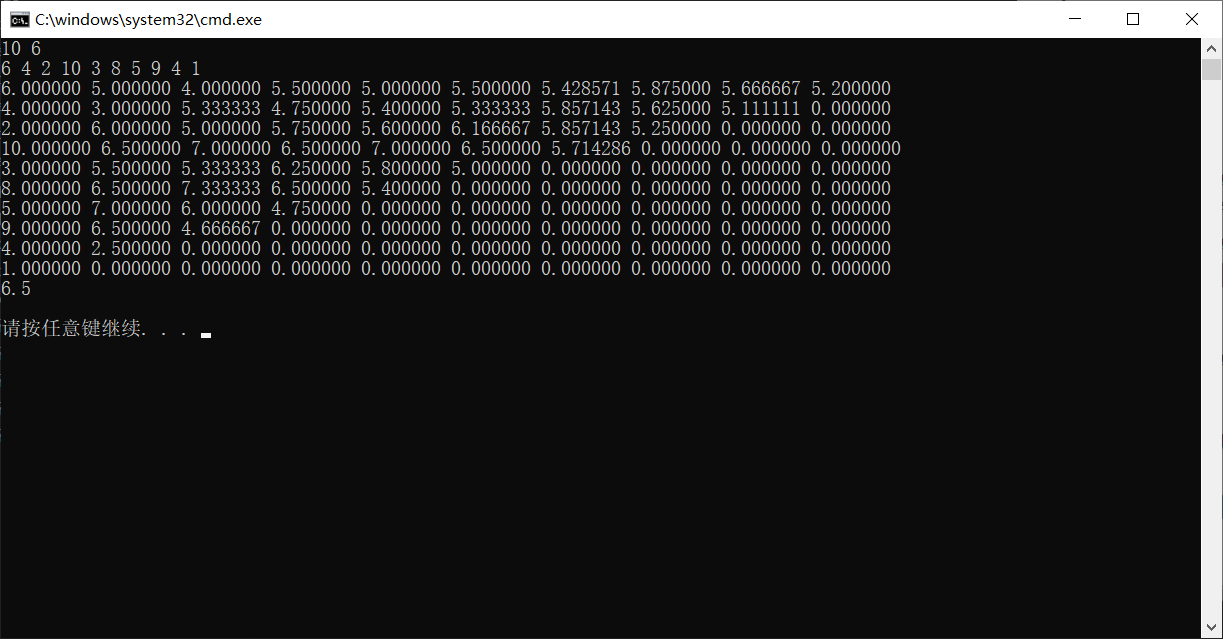
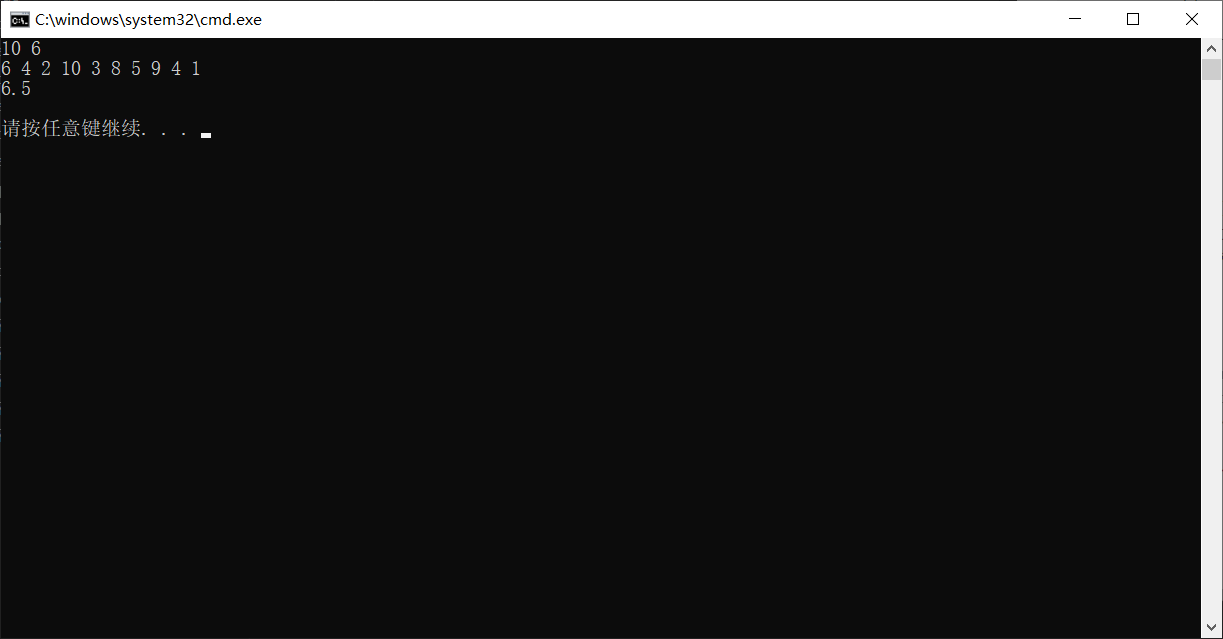
Site updated: 2023-05-20 00:06:19

diff --git a/2023/05/18/动态规划1/index.html b/2023/05/18/动态规划1/index.html
@@ -31,7 +31,7 @@
 <meta property="og:image" content="https://sunwuzhou03.github.io/images/%E5%8A%A8%E6%80%81%E8%A7%84%E5%88%921%E9%A2%98%E7%9B%AE3%E5%9B%BE.png">
 <meta property="og:image" content="https://sunwuzhou03.github.io/images/%E5%8A%A8%E6%80%81%E8%A7%84%E5%88%921%E9%A2%98%E7%9B%AE3%E8%BF%90%E8%A1%8C%E7%BB%93%E6%9E%9C%E5%9B%BE.png">
 <meta property="article:published_time" content="2023-05-18T15:24:16.000Z">
-<meta property="article:modified_time" content="2023-05-19T16:00:12.676Z">
+<meta property="article:modified_time" content="2023-05-19T16:04:32.171Z">
 <meta property="article:author" content="sunwuzhou03">
 <meta property="article:tag" content="动态规划">
 <meta name="twitter:card" content="summary">
@@ -211,7 +211,7 @@
         <i class="far fa-calendar-check"></i>
       </span>
       <span class="post-meta-item-text">更新于</span>
-      <time title="修改时间：2023-05-20 00:00:12" itemprop="dateModified" datetime="2023-05-20T00:00:12+08:00">2023-05-20</time>
+      <time title="修改时间：2023-05-20 00:04:32" itemprop="dateModified" datetime="2023-05-20T00:04:32+08:00">2023-05-20</time>
     </span>
     <span class="post-meta-item">
       <span class="post-meta-item-icon">
@@ -257,7 +257,7 @@
 <p>递推公式：<br>$  dp[i][j] = dp[i][j - 1] + (x[i + j - 1] - dp[i][j - 1]) / j $, $1=&lt;i&lt;=n, 1=&lt;j&lt;=n-i+1$</p>
 <p>边界条件：<br>$dp[1][0]=dp[2][0]=…=dp[n][0]=0$</p>
 <p>时间复杂度：<br>$O(n^2)$, $n$为数字序列长度</p>
-<h2 id="代码"><a href="#代码" class="headerlink" title="代码"></a>代码</h2><figure class="highlight c++"><table><tr><td class="gutter"><pre><span class="line">1</span><br><span class="line">2</span><br><span class="line">3</span><br><span class="line">4</span><br><span class="line">5</span><br><span class="line">6</span><br><span class="line">7</span><br><span class="line">8</span><br><span class="line">9</span><br><span class="line">10</span><br><span class="line">11</span><br><span class="line">12</span><br><span class="line">13</span><br><span class="line">14</span><br><span class="line">15</span><br><span class="line">16</span><br><span class="line">17</span><br><span class="line">18</span><br><span class="line">19</span><br><span class="line">20</span><br><span class="line">21</span><br><span class="line">22</span><br><span class="line">23</span><br><span class="line">24</span><br><span class="line">25</span><br><span class="line">26</span><br><span class="line">27</span><br><span class="line">28</span><br><span class="line">29</span><br><span class="line">30</span><br><span class="line">31</span><br><span class="line">32</span><br><span class="line">33</span><br><span class="line">34</span><br></pre></td><td class="code"><pre><span class="line"><span class="meta">#<span class="keyword">include</span> <span class="string">&lt;bits/stdc++.h&gt;</span></span></span><br><span class="line"><span class="keyword">using</span> <span class="keyword">namespace</span> std;</span><br><span class="line"><span class="function"><span class="type">int</span> <span class="title">main</span><span class="params">()</span></span></span><br><span class="line"><span class="function"></span>&#123;</span><br><span class="line">    <span class="type">int</span> n, f;</span><br><span class="line">    <span class="type">double</span> x[<span class="number">100</span>] = &#123;<span class="number">0</span>&#125;;</span><br><span class="line">    <span class="type">double</span> dp[<span class="number">100</span>][<span class="number">100</span>] = &#123;<span class="number">0.0</span>&#125;;</span><br><span class="line">    <span class="type">double</span> ans = <span class="number">0.0</span>;</span><br><span class="line">    cin &gt;&gt; n &gt;&gt; f;</span><br><span class="line">    <span class="keyword">for</span> (<span class="type">int</span> i = <span class="number">1</span>; i &lt;= n; i++)</span><br><span class="line">        cin &gt;&gt; x[i];</span><br><span class="line">    <span class="keyword">for</span> (<span class="type">int</span> i = <span class="number">1</span>; i &lt;= n; i++)<span class="comment">//枚举序列起点</span></span><br><span class="line">    &#123;</span><br><span class="line">        <span class="keyword">for</span> (<span class="type">int</span> j = <span class="number">1</span>; j &lt;= n - i + <span class="number">1</span>; j++)<span class="comment">//枚举序列长度</span></span><br><span class="line">        &#123;</span><br><span class="line">            dp[i][j] = dp[i][j - <span class="number">1</span>] + (x[i + j - <span class="number">1</span>] - dp[i][j - <span class="number">1</span>]) / j;<span class="comment">//递推公式</span></span><br><span class="line">            <span class="keyword">if</span> (j &gt;= f)<span class="comment">//求解f以上序列平均值最大值</span></span><br><span class="line">                ans = <span class="built_in">max</span>(ans, dp[i][j]); </span><br><span class="line">        &#125;</span><br><span class="line">    &#125;</span><br><span class="line">    <span class="keyword">for</span> (<span class="type">int</span> i = <span class="number">1</span>; i &lt;= n; i++)<span class="comment">//打印各个序列的平均值，便于观察</span></span><br><span class="line">    &#123;</span><br><span class="line">        <span class="keyword">for</span> (<span class="type">int</span> j = <span class="number">1</span>; j &lt;= n; j++)</span><br><span class="line">            <span class="built_in">printf</span>(<span class="string">&quot;%8lf &quot;</span>, dp[i][j]);</span><br><span class="line">        cout &lt;&lt; endl;</span><br><span class="line">    &#125;</span><br><span class="line">    cout &lt;&lt; ans &lt;&lt; endl;<span class="comment">//输出最终结果</span></span><br><span class="line">    <span class="keyword">return</span> <span class="number">0</span>;</span><br><span class="line">&#125;</span><br><span class="line"><span class="comment">/*</span></span><br><span class="line"><span class="comment">10 6</span></span><br><span class="line"><span class="comment">6 4 2 10 3 8 5 9 4 1</span></span><br><span class="line"><span class="comment">*/</span></span><br><span class="line"></span><br></pre></td></tr></table></figure>
+<h2 id="代码"><a href="#代码" class="headerlink" title="代码"></a>代码</h2><figure class="highlight c++"><table><tr><td class="gutter"><pre><span class="line">1</span><br><span class="line">2</span><br><span class="line">3</span><br><span class="line">4</span><br><span class="line">5</span><br><span class="line">6</span><br><span class="line">7</span><br><span class="line">8</span><br><span class="line">9</span><br><span class="line">10</span><br><span class="line">11</span><br><span class="line">12</span><br><span class="line">13</span><br><span class="line">14</span><br><span class="line">15</span><br><span class="line">16</span><br><span class="line">17</span><br><span class="line">18</span><br><span class="line">19</span><br><span class="line">20</span><br><span class="line">21</span><br><span class="line">22</span><br><span class="line">23</span><br><span class="line">24</span><br><span class="line">25</span><br><span class="line">26</span><br><span class="line">27</span><br><span class="line">28</span><br><span class="line">29</span><br><span class="line">30</span><br><span class="line">31</span><br><span class="line">32</span><br><span class="line">33</span><br><span class="line">34</span><br></pre></td><td class="code"><pre><span class="line"><span class="meta">#<span class="keyword">include</span> <span class="string">&lt;bits/stdc++.h&gt;</span></span></span><br><span class="line"><span class="keyword">using</span> <span class="keyword">namespace</span> std;</span><br><span class="line"><span class="function"><span class="type">int</span> <span class="title">main</span><span class="params">()</span></span></span><br><span class="line"><span class="function"></span>&#123;</span><br><span class="line">    <span class="type">int</span> n, f;</span><br><span class="line">    <span class="type">double</span> x[<span class="number">100</span>] = &#123;<span class="number">0</span>&#125;;</span><br><span class="line">    <span class="type">double</span> dp[<span class="number">100</span>][<span class="number">100</span>] = &#123;<span class="number">0.0</span>&#125;;</span><br><span class="line">    <span class="type">double</span> ans = <span class="number">0.0</span>;</span><br><span class="line">    cin &gt;&gt; n &gt;&gt; f;</span><br><span class="line">    <span class="keyword">for</span> (<span class="type">int</span> i = <span class="number">1</span>; i &lt;= n; i++)</span><br><span class="line">        cin &gt;&gt; x[i];</span><br><span class="line">    <span class="keyword">for</span> (<span class="type">int</span> i = <span class="number">1</span>; i &lt;= n; i++)<span class="comment">//枚举序列起点</span></span><br><span class="line">    &#123;</span><br><span class="line">        <span class="keyword">for</span> (<span class="type">int</span> j = <span class="number">1</span>; j &lt;= n - i + <span class="number">1</span>; j++)<span class="comment">//枚举序列长度</span></span><br><span class="line">        &#123;</span><br><span class="line">            dp[i][j] = dp[i][j - <span class="number">1</span>] + (x[i + j - <span class="number">1</span>] - dp[i][j - <span class="number">1</span>]) / j;<span class="comment">//递推公式</span></span><br><span class="line">            <span class="keyword">if</span> (j &gt;= f)<span class="comment">//求解f以上序列平均值最大值</span></span><br><span class="line">                ans = <span class="built_in">max</span>(ans, dp[i][j]); </span><br><span class="line">        &#125;</span><br><span class="line">    &#125;</span><br><span class="line">    <span class="comment">//for (int i = 1; i &lt;= n; i++)//打印各个序列的平均值，便于观察</span></span><br><span class="line">    <span class="comment">//&#123;</span></span><br><span class="line">    <span class="comment">//    for (int j = 1; j &lt;= n; j++)</span></span><br><span class="line">    <span class="comment">//        printf(&quot;%8lf &quot;, dp[i][j]);</span></span><br><span class="line">    <span class="comment">//    cout &lt;&lt; endl;</span></span><br><span class="line">    <span class="comment">//&#125;</span></span><br><span class="line">    cout &lt;&lt; ans &lt;&lt; endl;<span class="comment">//输出最终结果</span></span><br><span class="line">    <span class="keyword">return</span> <span class="number">0</span>;</span><br><span class="line">&#125;</span><br><span class="line"><span class="comment">/*</span></span><br><span class="line"><span class="comment">10 6</span></span><br><span class="line"><span class="comment">6 4 2 10 3 8 5 9 4 1</span></span><br><span class="line"><span class="comment">*/</span></span><br><span class="line"></span><br></pre></td></tr></table></figure>
 <h2 id="运行结果"><a href="#运行结果" class="headerlink" title="运行结果"></a>运行结果</h2><p><img src="/images/动态规划1题目1运行结果图.png" alt=" "></p>
 <h1 id="题目2"><a href="#题目2" class="headerlink" title="题目2"></a>题目2</h1><h2 id="题面-1"><a href="#题面-1" class="headerlink" title="题面"></a>题面</h2><p>商店为了促销往往将若干个商品捆绑在一起以低于商品原来的价格进行销售，这样可以鼓励顾客购买更多的商品。请帮助顾客计算他最少能以多少的价格才能购买到他所需的商品。注意，他不希望购买的商品与他的要求不符，也就是他购买的商品既不能多也不能少。<br>输入要求：<br>输入的第一行包含一个整数n（0&lt;=n&lt;=5），表示该顾客需要购买的商品的信息。其后的n行，每一行有三个整数c (1 &lt;= c &lt;= 999),k(1 &lt;= k &lt;= 5),p (1 &lt;= p &lt;= 999)，分别表示商品的编号c，购买该商品的数量k 以及该商品的单价p；之后的一行是一个整数m (0 &lt;= m &lt;= 99)，表示可以选择的优惠类型；其后的m行，每一行表示一种优惠类型。每一行的第一个数是一个整数s (1 &lt;= s &lt;= 5)，表示该种优惠包含多少个可以捆绑在一起的优惠商品，每一个捆绑的商品都包含该商品的编号c以及对应的数量h(1 &lt;= h &lt;= 5), 最后一个是该种捆绑优惠的商品的总价格t(1 &lt;= t &lt;= 9999)。比如某种捆绑优惠包含2种不同的商品，第一种商品的编号为7，数量为1，第二种商品的编号为8，数量为2，总的价格为10，则该种捆绑优惠可表示为：<br>2 7 1 8 2 10<br>输出要求：<br>输出一个整数，占一行，表示购买所需商品的最低价格。<br>输入样例：<br>2<br>7 3 2<br>8 2 5<br>2<br>1 7 3 5<br>2 7 1 8 2 10<br>输出样例：<br>14</p>
 <h2 id="分析-1"><a href="#分析-1" class="headerlink" title="分析"></a>分析</h2><p>为了方便求解问题，我们做以下处理，将单个商品处理成一种优惠，仔细阅读题目信息可以发现题目中所给s $&lt;=$5 且客人要求所买商品不能多也不能少，因此每种优惠的总商品数不会超过5个，我们考虑使用完全背包和多种物品背包的思想，使用ccode数组储存对客服需求商品的编号的编码，不需要的商品编码为0，用 $w[i][j]$ 表示第i个礼包商品j的数量，$v[i]$ 表示第i个礼包的价格，我们可以设置以下dp数组<br>$dp[i][j][h][k][l]$ 表示第1种商品选i件，第2种商品选j件……</p>
@@ -273,7 +273,7 @@
 <p>状态转移方程2：<br>$dp[father]$ 表示删去节点$father$的最大平衡树<br>$dp[father] = max(dp[father], node _ num[son_1], node _ num[son_2]…node _ num[son_n])$</p>
 <p>边界条件：<br>$dp[father] = node _ num[1] - node _ num[father]，1=&lt;father&lt;=m+1$</p>
 <p>$ans$为最终的答案<br>$ans=min(ans,dp[father])$</p>
-<p>时间复杂度：<br>$dfs$函数时间复杂度O(m+1)<br>$solve$函数时间复杂度$O(\Sigma tree[father].size)，tree[father].size表示以father作为父节点的直接子节点数，1=&lt;father&lt;=m+1$<br>总时间复杂度$O(\Sigma tree[father].size)</p>
+<p>时间复杂度：<br>$dfs$函数时间复杂度O(m+1)<br>$solve$函数时间复杂度$O(\Sigma tree[father].size)，tree[father].size$表示以$father$作为父节点的直接子节点数，$1=&lt;father&lt;=m+1$<br>总时间复杂度$O(\Sigma tree[father].size)$</p>
 <h2 id="代码-2"><a href="#代码-2" class="headerlink" title="代码"></a>代码</h2><figure class="highlight c++"><table><tr><td class="gutter"><pre><span class="line">1</span><br><span class="line">2</span><br><span class="line">3</span><br><span class="line">4</span><br><span class="line">5</span><br><span class="line">6</span><br><span class="line">7</span><br><span class="line">8</span><br><span class="line">9</span><br><span class="line">10</span><br><span class="line">11</span><br><span class="line">12</span><br><span class="line">13</span><br><span class="line">14</span><br><span class="line">15</span><br><span class="line">16</span><br><span class="line">17</span><br><span class="line">18</span><br><span class="line">19</span><br><span class="line">20</span><br><span class="line">21</span><br><span class="line">22</span><br><span class="line">23</span><br><span class="line">24</span><br><span class="line">25</span><br><span class="line">26</span><br><span class="line">27</span><br><span class="line">28</span><br><span class="line">29</span><br><span class="line">30</span><br><span class="line">31</span><br><span class="line">32</span><br><span class="line">33</span><br><span class="line">34</span><br><span class="line">35</span><br><span class="line">36</span><br><span class="line">37</span><br><span class="line">38</span><br><span class="line">39</span><br><span class="line">40</span><br><span class="line">41</span><br><span class="line">42</span><br><span class="line">43</span><br><span class="line">44</span><br><span class="line">45</span><br><span class="line">46</span><br><span class="line">47</span><br><span class="line">48</span><br><span class="line">49</span><br><span class="line">50</span><br><span class="line">51</span><br><span class="line">52</span><br><span class="line">53</span><br><span class="line">54</span><br><span class="line">55</span><br><span class="line">56</span><br><span class="line">57</span><br><span class="line">58</span><br><span class="line">59</span><br><span class="line">60</span><br><span class="line">61</span><br><span class="line">62</span><br><span class="line">63</span><br><span class="line">64</span><br><span class="line">65</span><br><span class="line">66</span><br><span class="line">67</span><br><span class="line">68</span><br><span class="line">69</span><br><span class="line">70</span><br><span class="line">71</span><br><span class="line">72</span><br><span class="line">73</span><br><span class="line">74</span><br><span class="line">75</span><br><span class="line">76</span><br><span class="line">77</span><br><span class="line">78</span><br><span class="line">79</span><br><span class="line">80</span><br><span class="line">81</span><br></pre></td><td class="code"><pre><span class="line"><span class="meta">#<span class="keyword">include</span> <span class="string">&lt;bits/stdc++.h&gt;</span></span></span><br><span class="line"><span class="keyword">using</span> <span class="keyword">namespace</span> std;</span><br><span class="line">vector&lt;<span class="type">int</span>&gt; tree[<span class="number">20002</span>]; <span class="comment">// 存储树的结构</span></span><br><span class="line"><span class="type">int</span> node_num[<span class="number">20002</span>];     <span class="comment">// node_num[i]储存节点为i做根节点时总结点数</span></span><br><span class="line"><span class="type">int</span> n, m;</span><br><span class="line"><span class="type">int</span> dp[<span class="number">20002</span>]; <span class="comment">// dp[i]存储节点为i的平衡树</span></span><br><span class="line"><span class="function"><span class="type">int</span> <span class="title">dfs</span><span class="params">(<span class="type">int</span> father)</span></span></span><br><span class="line"><span class="function"></span>&#123;</span><br><span class="line">    <span class="keyword">for</span> (<span class="keyword">auto</span> son : tree[father]) <span class="comment">// 枚举字节点</span></span><br><span class="line">    &#123;</span><br><span class="line">        node_num[father] += <span class="built_in">dfs</span>(son);</span><br><span class="line">    &#125;</span><br><span class="line">    <span class="keyword">return</span> node_num[father];</span><br><span class="line">&#125;</span><br><span class="line"><span class="function"><span class="type">int</span> <span class="title">solve</span><span class="params">()</span></span></span><br><span class="line"><span class="function"></span>&#123;</span><br><span class="line">    <span class="type">int</span> ans = INT32_MAX;</span><br><span class="line">    <span class="keyword">for</span> (<span class="type">int</span> father = <span class="number">1</span>; father &lt;= m + <span class="number">1</span>; father++)</span><br><span class="line">    &#123;</span><br><span class="line">        dp[father] = node_num[<span class="number">1</span>] - node_num[father];</span><br><span class="line">        <span class="keyword">for</span> (<span class="keyword">auto</span> son : tree[father])</span><br><span class="line">        &#123;</span><br><span class="line">            dp[father] = <span class="built_in">max</span>(dp[father], node_num[son]); <span class="comment">// 求解最大平衡树</span></span><br><span class="line">        &#125;</span><br><span class="line">        ans = <span class="built_in">min</span>(ans, dp[father]);</span><br><span class="line">        tree[father].<span class="built_in">clear</span>();</span><br><span class="line">        <span class="comment">// cout &lt;&lt; &quot;xxx &quot; &lt;&lt; f &lt;&lt; &quot; &quot; &lt;&lt; dp[f] &lt;&lt; endl;</span></span><br><span class="line">    &#125;</span><br><span class="line">    <span class="keyword">return</span> ans;</span><br><span class="line">&#125;</span><br><span class="line"><span class="function"><span class="type">int</span> <span class="title">main</span><span class="params">()</span></span></span><br><span class="line"><span class="function"></span>&#123;</span><br><span class="line">    <span class="type">int</span> f[<span class="number">20002</span>];</span><br><span class="line">    cin &gt;&gt; n &gt;&gt; m;</span><br><span class="line">    <span class="keyword">while</span> (n--)</span><br><span class="line">    &#123;</span><br><span class="line">        <span class="built_in">memset</span>(dp, <span class="number">0</span>, <span class="built_in">sizeof</span>(dp));</span><br><span class="line">        <span class="built_in">memset</span>(node_num, <span class="number">0</span>, <span class="built_in">sizeof</span>(node_num));</span><br><span class="line">        <span class="keyword">for</span> (<span class="type">int</span> i = <span class="number">1</span>; i &lt;= m; i++)</span><br><span class="line">        &#123;</span><br><span class="line">            <span class="type">int</span> u, v;</span><br><span class="line">            cin &gt;&gt; u &gt;&gt; v;</span><br><span class="line">            tree[u].<span class="built_in">push_back</span>(v);</span><br><span class="line">            <span class="comment">// node_num初始化</span></span><br><span class="line">            node_num[u] = <span class="number">1</span>;</span><br><span class="line">            node_num[v] = <span class="number">1</span>;</span><br><span class="line">        &#125;</span><br><span class="line">        <span class="comment">// for (int i = 1; i &lt;= m; i++)</span></span><br><span class="line">        <span class="comment">// &#123;</span></span><br><span class="line">        <span class="comment">//     cout &lt;&lt; i &lt;&lt; &quot; &quot;;</span></span><br><span class="line">        <span class="comment">//     for (auto node : tree[i])</span></span><br><span class="line">        <span class="comment">//     &#123;</span></span><br><span class="line">        <span class="comment">//         cout &lt;&lt; node &lt;&lt; &quot; &quot;;</span></span><br><span class="line">        <span class="comment">//     &#125;</span></span><br><span class="line">        <span class="comment">//     cout &lt;&lt; endl;</span></span><br><span class="line">        <span class="comment">// &#125;</span></span><br><span class="line">        <span class="built_in">dfs</span>(<span class="number">1</span>); <span class="comment">// 求解节点数</span></span><br><span class="line">        <span class="comment">// for (int i = 1; i &lt;= m; i++)</span></span><br><span class="line">        <span class="comment">// &#123;</span></span><br><span class="line">        <span class="comment">//     cout &lt;&lt; node_num[i] &lt;&lt; &quot; &quot;;</span></span><br><span class="line">        <span class="comment">// &#125;</span></span><br><span class="line">        <span class="comment">// cout &lt;&lt; endl;</span></span><br><span class="line">        <span class="type">int</span> ans = <span class="built_in">solve</span>(); <span class="comment">// 求解平衡数</span></span><br><span class="line">        cout &lt;&lt; ans &lt;&lt; endl;</span><br><span class="line">    &#125;</span><br><span class="line"></span><br><span class="line">    <span class="keyword">return</span> <span class="number">0</span>;</span><br><span class="line">&#125;</span><br><span class="line"><span class="comment">/*</span></span><br><span class="line"><span class="comment">1</span></span><br><span class="line"><span class="comment">9</span></span><br><span class="line"><span class="comment">1 2</span></span><br><span class="line"><span class="comment">1 3</span></span><br><span class="line"><span class="comment">1 4</span></span><br><span class="line"><span class="comment">2 5</span></span><br><span class="line"><span class="comment">3 6</span></span><br><span class="line"><span class="comment">3 7</span></span><br><span class="line"><span class="comment">3 8</span></span><br><span class="line"><span class="comment">4 9</span></span><br><span class="line"><span class="comment">4 10</span></span><br><span class="line"><span class="comment">*/</span></span><br></pre></td></tr></table></figure>
 <h2 id="运行结果-2"><a href="#运行结果-2" class="headerlink" title="运行结果"></a>运行结果</h2><p><img src="/images/动态规划1题目3运行结果图.png" alt=" "></p>
 

diff --git a/default-index/index.html b/default-index/index.html
@@ -201,7 +201,7 @@
         <i class="far fa-calendar-check"></i>
       </span>
       <span class="post-meta-item-text">更新于</span>
-      <time title="修改时间：2023-05-20 00:00:12" itemprop="dateModified" datetime="2023-05-20T00:00:12+08:00">2023-05-20</time>
+      <time title="修改时间：2023-05-20 00:04:32" itemprop="dateModified" datetime="2023-05-20T00:04:32+08:00">2023-05-20</time>
     </span>
     <span class="post-meta-item">
       <span class="post-meta-item-icon">

diff --git a/css/main.css b/css/main.css
@@ -2451,7 +2451,7 @@ header.header {
   vertical-align: middle;
 }
 .links-of-author a::before {
-  background: #e0ff67;
+  background: #47677a;
   display: inline-block;
   margin-right: 3px;
   transform: translateY(-2px);

diff --git a/en/css/main.css b/en/css/main.css
@@ -2444,7 +2444,7 @@ header.header {
   vertical-align: middle;
 }
 .links-of-author a::before {
-  background: #b31ae0;
+  background: #d7ffff;
   display: inline-block;
   margin-right: 3px;
   transform: translateY(-2px);
